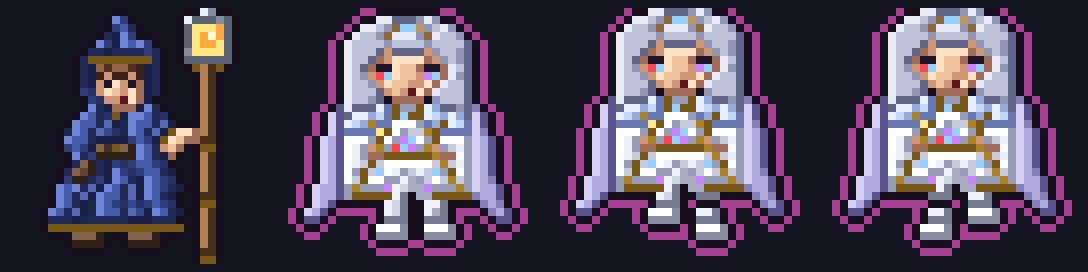
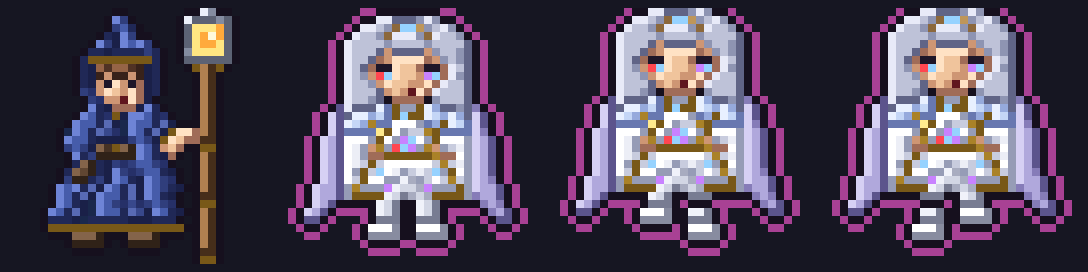
Vividbearer sprite: center the legs and boots under the body
Claude-Session: https://claude.ai/code/session_01XMEo4x59g4Ygvken3HiQNb

Changed region(s): [[0.8125, 0.6471, 0.9375, 0.9412], [0.3125, 0.6765, 0.4375, 0.9412], [0.5625, 0.6471, 0.6875, 0.9412]]

diff --git a/Game/Assets/Scripts/Core/PixelArt.cs b/Game/Assets/Scripts/Core/PixelArt.cs
@@ -807,12 +807,12 @@ namespace VividOfFade
             ".....vvvxxgxBxxxxxxBxgxxvvv.....",
             ".....vvvxxgxxxxTTxxxxgxxvvv.....",
             "....vvvvxgxxxpTTTTpxxxgxvvvv....",
-            "....vvvvxgggggTT.TTgggggvvvv....",
-            "....vvv......TTT..TTT....vvv....",
-            "...vvv.......TTT..TTT.....vvv...",
-            "...vv........TTT..TTT......vv...",
-            "............bbbb..bbbb..........",
-            "............bbbb..bbbb..........",
+            "....vvvvxggggTTTTTTggggxvvvv....",
+            "....vvv.....TTT..TTT.....vvv....",
+            "...vvv......TTT..TTT......vvv...",
+            "...vv.......TTT..TTT.......vv...",
+            "...........bbbb..bbbb...........",
+            "...........bbbb..bbbb...........",
             "................................",
             "................................",
             "................................",
